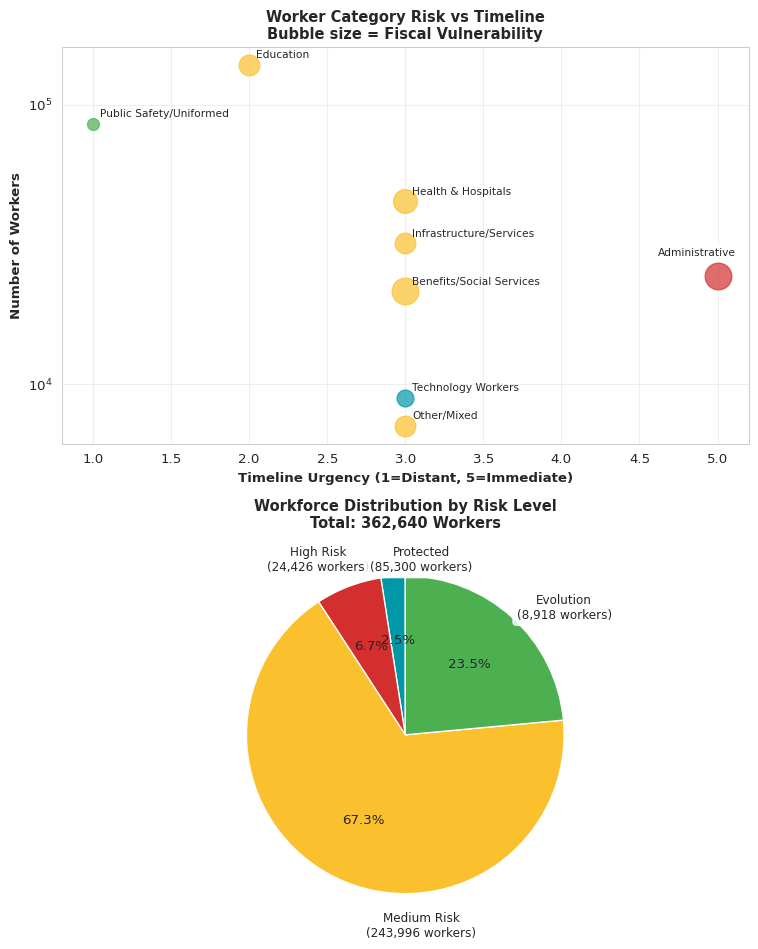
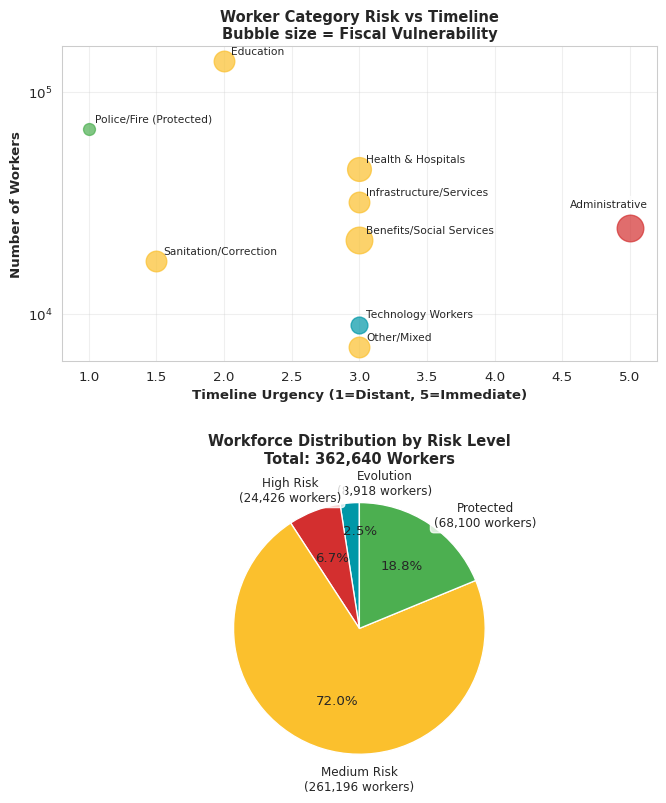
deploy: fa85fed6920fa88858ce38dbb10ab9d3096696cc

diff --git a/index.html b/index.html
@@ -6,10 +6,10 @@
 
 <meta name="viewport" content="width=device-width, initial-scale=1.0, user-scalable=yes">
 
-<meta name="author" content="Policy Analysis Team">
+<meta name="author" content="Municipal Futures Research Collective">
 <meta name="dcterms.date" content="2025-06-18">
 
-<title>AI’s Coming Wave: Impact Analysis for City Workers</title>
+<title>Municipal Workforce Transformation:</title>
 <style>
 code{white-space: pre-wrap;}
 span.smallcaps{font-variant: small-caps;}
@@ -113,13 +113,12 @@ pre > code.sourceCode > span > a:first-child::before { text-decoration: underlin
   </ul></li>
   <li><a href="#worker-category-risk-analysis" id="toc-worker-category-risk-analysis" class="nav-link" data-scroll-target="#worker-category-risk-analysis">📈 Worker Category Risk Analysis</a>
   <ul class="collapse">
-  <li><a href="#technology-workers-evolving-roles" id="toc-technology-workers-evolving-roles" class="nav-link" data-scroll-target="#technology-workers-evolving-roles">Technology Workers: Evolving Roles</a></li>
   <li><a href="#administrative-workers-earlier-and-more-intense-impact" id="toc-administrative-workers-earlier-and-more-intense-impact" class="nav-link" data-scroll-target="#administrative-workers-earlier-and-more-intense-impact">Administrative Workers: Earlier and More Intense Impact</a></li>
-  </ul></li>
-  <li><a href="#omd-position-analysis" id="toc-omd-position-analysis" class="nav-link" data-scroll-target="#omd-position-analysis">OMD Position Analysis</a>
+  <li><a href="#technology-workers-position-analysis" id="toc-technology-workers-position-analysis" class="nav-link" data-scroll-target="#technology-workers-position-analysis">Technology Workers: Position Analysis</a>
   <ul class="collapse">
-  <li><a href="#current-omd-workforce-and-risk-profile-30-positions" id="toc-current-omd-workforce-and-risk-profile-30-positions" class="nav-link" data-scroll-target="#current-omd-workforce-and-risk-profile-30-positions">Current OMD Workforce and Risk Profile (30 Positions)</a></li>
-  <li><a href="#position-analysis-competing-forces" id="toc-position-analysis-competing-forces" class="nav-link" data-scroll-target="#position-analysis-competing-forces">Position Analysis: Competing Forces</a></li>
+  <li><a href="#role-evolution-by-specialty" id="toc-role-evolution-by-specialty" class="nav-link" data-scroll-target="#role-evolution-by-specialty">Role Evolution by Specialty</a></li>
+  <li><a href="#overall-risk-assessment-8918-positions" id="toc-overall-risk-assessment-8918-positions" class="nav-link" data-scroll-target="#overall-risk-assessment-8918-positions">Overall Risk Assessment (8,918 Positions)</a></li>
+  </ul></li>
   </ul></li>
   <li><a href="#the-union-factor-protection-and-accelerated-timing" id="toc-the-union-factor-protection-and-accelerated-timing" class="nav-link" data-scroll-target="#the-union-factor-protection-and-accelerated-timing">The Union Factor: Protection and Accelerated Timing</a>
   <ul class="collapse">
@@ -127,7 +126,7 @@ pre > code.sourceCode > span > a:first-child::before { text-decoration: underlin
   <li><a href="#moderate-protection-shortened-windows" id="toc-moderate-protection-shortened-windows" class="nav-link" data-scroll-target="#moderate-protection-shortened-windows">Moderate Protection (Shortened Windows)</a></li>
   <li><a href="#least-protection-accelerated-impact" id="toc-least-protection-accelerated-impact" class="nav-link" data-scroll-target="#least-protection-accelerated-impact">Least Protection (Accelerated Impact)</a></li>
   </ul></li>
-  <li><a href="#key-takeaways-strategic-implications-for-workforce-transformation" id="toc-key-takeaways-strategic-implications-for-workforce-transformation" class="nav-link" data-scroll-target="#key-takeaways-strategic-implications-for-workforce-transformation">Key Takeaways: Strategic Implications for Workforce Transformation</a>
+  <li><a href="#key-takeaways-workforce-transformation-analysis" id="toc-key-takeaways-workforce-transformation-analysis" class="nav-link" data-scroll-target="#key-takeaways-workforce-transformation-analysis">Key Takeaways: Workforce Transformation Analysis</a>
   <ul class="collapse">
   <li><a href="#the-compressed-mathematical-reality" id="toc-the-compressed-mathematical-reality" class="nav-link" data-scroll-target="#the-compressed-mathematical-reality">The Compressed Mathematical Reality</a></li>
   <li><a href="#four-analytical-certainties" id="toc-four-analytical-certainties" class="nav-link" data-scroll-target="#four-analytical-certainties">Four Analytical Certainties</a></li>
@@ -141,8 +140,8 @@ pre > code.sourceCode > span > a:first-child::before { text-decoration: underlin
 
 <header id="title-block-header" class="quarto-title-block default">
 <div class="quarto-title">
-<h1 class="title">AI’s Coming Wave: Impact Analysis for City Workers</h1>
-<p class="subtitle lead">Interactive Dashboard and Strategic Timeline</p>
+<h1 class="title">Municipal Workforce Transformation:</h1>
+<p class="subtitle lead">NYC AI Impact Analysis 2025-2035</p>
 </div>
 
 
@@ -152,7 +151,7 @@ pre > code.sourceCode > span > a:first-child::before { text-decoration: underlin
     <div>
     <div class="quarto-title-meta-heading">Author</div>
     <div class="quarto-title-meta-contents">
-             <p>Policy Analysis Team </p>
+             <p>Municipal Futures Research Collective </p>
           </div>
   </div>
     
@@ -196,7 +195,7 @@ Key Findings
 </section>
 <section id="the-reality-check-you-need-to-hear" class="level1">
 <h1>The Reality Check You Need to Hear</h1>
-<p>While you’re reading this, 513 people lost their jobs to AI today—but none of them worked for NYC government. That 4-5 year head start the private sector has on AI adoption isn’t just an academic observation—it’s your window to prepare for what’s coming.</p>
+<p>While you’re reading this, 513 people lost their jobs to AI today—but none of them worked for NYC government. The private sector’s 2-3 year lead in AI adoption isn’t just an academic observation-—it’s a temporary buffer that won’t last forever.</p>
 <p>Microsoft just eliminated 6,000 positions in May 2025, with 40% targeting software engineers. IBM cut 8,000 more as AI agents took over HR functions. Meanwhile, NYC government is still debating AI ethics policies and running 18-month procurement processes. This lag isn’t permanent protection—it’s borrowed time.</p>
 <p><strong>Bottom line up front:</strong> AI displacement in NYC government follows a predictable timeline shaped by politics, procurement, and fiscal reality. The fiscal timeline has accelerated, creating a compressed but more intense transformation window than originally projected.</p>
 </section>
@@ -250,14 +249,14 @@ Key Findings
 <section id="historical-context-learning-from-the-great-recession" class="level2">
 <h2 class="anchored" data-anchor-id="historical-context-learning-from-the-great-recession">Historical Context: Learning from the Great Recession</h2>
 <p>The Great Recession (December 2007 - June 2009) provides essential insights for understanding NYC’s coming fiscal challenges and the extended timeline for municipal transformation.</p>
-<p>Municipal governments face different economic dynamics than private sector organizations. Property tax revenues, which comprise 50% of NYC’s income, lag economic changes by 1-2 years due to assessment cycles. Historical evidence shows that while the Great Recession officially lasted 18 months, municipal budget cuts continued 4+ years after it ended.</p>
+<p>Municipal governments face different economic dynamics than private sector organizations. Property tax revenues, which comprise approximately 50% of NYC’s income, lag economic changes by 1-2 years due to assessment cycles, creating 2-3 years of total revenue stability post-recession. Historical evidence shows that while the Great Recession officially lasted 18 months, municipal budget cuts continued 4+ years after it ended.</p>
 </section>
 <section id="nycs-fiscal-timeline-2026-2032" class="level2">
 <h2 class="anchored" data-anchor-id="nycs-fiscal-timeline-2026-2032">NYC’s Fiscal Timeline (2026-2032)</h2>
 <p><strong>Critical Assumption:</strong> This analysis assumes a significant economic recession beginning in 2026, which will accelerate fiscal pressures and compress the timeline for government AI adoption.</p>
 <p><strong>The Depletion (2026-2028):</strong> Recent projections show NYC’s fiscal buffer operates on a compressed timeline:</p>
 <ul>
-<li><strong>Property tax lag:</strong> 50% of city revenue remains stable for 2-3 years post-recession</li>
+<li><strong>Property tax lag:</strong> About 50% of city revenue remains stable for 2-3 years post-recession</li>
 <li><strong>Reserve funds:</strong> Depleted by 2028, not 2029 as previously projected</li>
 <li><strong>Income tax delays:</strong> Even immediate economic impacts take 12-18 months to affect collections</li>
 </ul>
@@ -456,11 +455,17 @@ Benefits/Social Services:
   • Timeline Urgency: 3/5
   • Automation Difficulty: 4/5
 
-Public Safety/Uniformed:
+Police/Fire (Protected):
   • Risk Level: Protected
-  • Workers: 85,300
+  • Workers: 68,100
   • Timeline Urgency: 1/5
   • Automation Difficulty: 1/5
+
+Sanitation/Correction:
+  • Risk Level: Medium Risk
+  • Workers: 17,200
+  • Timeline Urgency: 1.5/5
+  • Automation Difficulty: 3/5
 
 Education:
   • Risk Level: Medium Risk
@@ -488,30 +493,25 @@ Other/Mixed:
 </div>
 </div>
 <p>Recent AI advances and the compressed implementation timeline have significantly shifted risk profiles across worker categories within NYC’s 362,640 municipal workforce, requiring substantial revision of assumptions about “safe” jobs.</p>
-<section id="technology-workers-evolving-roles" class="level2">
-<h2 class="anchored" data-anchor-id="technology-workers-evolving-roles">Technology Workers: Evolving Roles</h2>
-<p>Technology workers face the most dramatic shift in prospects. Rather than displacement, they become essential to the transformation process, but with compressed timelines that require rapid adaptation.</p>
-<p><strong>Software Engineers</strong> must become “AI integration specialists” by 2027-2028. While 30% of routine coding is now AI-generated, government systems require human oversight for security, compliance, and complex integration with legacy systems.</p>
-<p><strong>Data Engineers</strong> emerge as the winners because government data complexity requires sophisticated data pipelines that AI cannot navigate without human guidance. They become essential during the 2029 preparation year when agencies scramble to build AI capabilities under fiscal pressure.</p>
-<p><strong>Data Scientists</strong> transform into critical AI interpreters, translating complex model results into actionable policy recommendations during crisis decision-making. Their role becomes essential during 2029-2030 when agencies need rapid but responsible AI deployment under fiscal constraints.</p>
-</section>
 <section id="administrative-workers-earlier-and-more-intense-impact" class="level2">
 <h2 class="anchored" data-anchor-id="administrative-workers-earlier-and-more-intense-impact">Administrative Workers: Earlier and More Intense Impact</h2>
 <p>The compressed timeline intensifies impact on administrative workers. Those in routine data processing, document review, or rules-based decision making face accelerated displacement with minimal preparation time. <strong>311 Customer Service Representatives</strong> face 2027-2028 implementation with 80-90% automation potential, representing immediate cost savings with minimal political resistance during fiscal crisis. <strong>Data Entry and Clerical Staff</strong> across agencies face 2027-2029 phased implementation as perfect automation targets with clear ROI calculations during budget pressure, while <strong>Basic Permit Processing Staff</strong> encounter 2028-2029 automation through digital document processing and rules-based approval systems, accelerated due to fiscal pressure and clear efficiency gains.</p>
 </section>
+<section id="technology-workers-position-analysis" class="level2">
+<h2 class="anchored" data-anchor-id="technology-workers-position-analysis">Technology Workers: Position Analysis</h2>
+<p>Technology workers face the most dramatic shift in prospects. Rather than displacement, they become essential to the transformation process, but with compressed timelines that require rapid adaptation.</p>
+<section id="role-evolution-by-specialty" class="level3">
+<h3 class="anchored" data-anchor-id="role-evolution-by-specialty">Role Evolution by Specialty</h3>
+<p><strong>Software Engineers</strong> must become “AI integration specialists” by 2027-2028. While 30% of routine coding is now AI-generated, government systems require human oversight for security, compliance, and complex integration with legacy systems.</p>
+<p><strong>Data Engineers</strong> emerge as the winners because government data complexity requires sophisticated data pipelines that AI cannot navigate without human guidance. They become essential during the 2029 preparation year when agencies scramble to build AI capabilities under fiscal pressure.</p>
+<p><strong>Data Scientists</strong> transform into critical AI interpreters, translating complex model results into actionable policy recommendations during crisis decision-making. Their role becomes essential during 2029-2030 when agencies need rapid but responsible AI deployment under fiscal constraints.</p>
 </section>
-<section id="omd-position-analysis" class="level1">
-<h1>OMD Position Analysis</h1>
-<p>The Department of Sanitation Operations Management Division faces a complex position during municipal transformation. While technical expertise provides certain advantages, the compressed timeline and fiscal pressure create significant risks even for technically skilled workers.</p>
-<section id="current-omd-workforce-and-risk-profile-30-positions" class="level2">
-<h2 class="anchored" data-anchor-id="current-omd-workforce-and-risk-profile-30-positions">Current OMD Workforce and Risk Profile (30 Positions)</h2>
-<p>The OMD technical team includes data scientists and analysts, software engineers and developers, data engineers and database managers, ARCGIS specialists and spatial analysts, and systems architects. While this skillset aligns with AI implementation needs, technical expertise alone doesn’t guarantee protection when fiscal pressure mounts.</p>
-</section>
-<section id="position-analysis-competing-forces" class="level2">
-<h2 class="anchored" data-anchor-id="position-analysis-competing-forces">Position Analysis: Competing Forces</h2>
+<section id="overall-risk-assessment-8918-positions" class="level3">
+<h3 class="anchored" data-anchor-id="overall-risk-assessment-8918-positions">Overall Risk Assessment (8,918 Positions)</h3>
 <p><strong>Technical advantages</strong> include expertise that agencies need for AI implementation, understanding of data systems architecture that becomes mission-critical during transformation, and specialized knowledge that’s scarce across the fragmented municipal bureaucracy.</p>
 <p><strong>Substantial risks</strong> include accelerated pressure from compressed fiscal timelines, high-visibility accountability when AI implementations succeed or fail, and the reality that organizational upheaval affects all municipal units during sustained fiscal crisis.</p>
 <p><strong>Bottom line:</strong> Technical positioning offers better odds than routine administrative work, but doesn’t eliminate exposure to the broader 25-30% workforce reduction projected by 2035. The compressed timeline means advantages must be leveraged smartly or they become irrelevant.</p>
+</section>
 </section>
 </section>
 <section id="the-union-factor-protection-and-accelerated-timing" class="level1">
@@ -519,7 +519,7 @@ Other/Mixed:
 <p>Union affiliation significantly affects displacement timeline and protection level, but fiscal crisis reduces overall protection duration and effectiveness across all categories.</p>
 <section id="strongest-protection-extended-timeline" class="level2">
 <h2 class="anchored" data-anchor-id="strongest-protection-extended-timeline">Strongest Protection (Extended Timeline)</h2>
-<p><strong>DC 37 (civilian workers)</strong> maintains maximum political leverage through largest membership, but fiscal crisis weakens negotiating position as the “efficiency or insolvency” narrative gains traction. <strong>Uniformed unions</strong> retain protection through roles inherently difficult to automate plus strong political protection, with timelines remaining at 2035+ due to public safety priorities.</p>
+<p><strong>DC 37 (civilian workers)</strong> maintains maximum political leverage through largest membership, but fiscal crisis weakens negotiating position as the “efficiency or insolvency” narrative gains traction. <strong>Police and fire unions</strong> retain protection through roles inherently difficult to automate plus strong political protection, with timelines remaining at 2035+ due to public safety priorities. <strong>Sanitation and correction workers</strong> face different pressures - while front-line roles resist automation, these positions proved vulnerable to budget cuts during COVID, demonstrating that fiscal crisis can override traditional uniformed protections.</p>
 </section>
 <section id="moderate-protection-shortened-windows" class="level2">
 <h2 class="anchored" data-anchor-id="moderate-protection-shortened-windows">Moderate Protection (Shortened Windows)</h2>
@@ -530,8 +530,8 @@ Other/Mixed:
 <p><strong>Managerial staff</strong> face targeting as “efficiency” opportunities during fiscal crisis when reducing management layers provides both cost savings and political benefits. <strong>Provisionals and non-competitive titles</strong> become first eliminated during 2029 pressure cooker year lacking civil service protections, while <strong>Temporary and part-time workers</strong> face elimination during the strategic attrition period as the easiest targets for immediate cost reduction without political complications.</p>
 </section>
 </section>
-<section id="key-takeaways-strategic-implications-for-workforce-transformation" class="level1">
-<h1>Key Takeaways: Strategic Implications for Workforce Transformation</h1>
+<section id="key-takeaways-workforce-transformation-analysis" class="level1">
+<h1>Key Takeaways: Workforce Transformation Analysis</h1>
 <p>AI displacement in NYC government follows an accelerated pattern shaped by the convergence of political cycles, fiscal crisis, and technological maturity as detailed in the perfect storm analysis above.</p>
 <section id="the-compressed-mathematical-reality" class="level2">
 <h2 class="anchored" data-anchor-id="the-compressed-mathematical-reality">The Compressed Mathematical Reality</h2>
@@ -549,11 +549,11 @@ Other/Mixed:
 </section>
 <section id="workforce-reality-by-2035" class="level2">
 <h2 class="anchored" data-anchor-id="workforce-reality-by-2035">Workforce Reality by 2035</h2>
-<p>Current projections indicate the NYC government workforce will be 25-30% smaller by 2035, dropping from approximately 362,640 to 254,000-272,000 workers, with transformation compressed into the intense 2030-2032 period. The remaining workforce will consist of workers who adapted quickly to AI collaboration models, those requiring complex human judgment, and positions with strong union or political protection.</p>
+<p>Current projections indicate the NYC government workforce will be 25-30% smaller by 2035, eliminating 90,000-108,000 positions as the workforce drops from approximately 362,640 to 254,000-272,000 workers, with transformation compressed into the intense 2030-2032 period. The remaining workforce will consist of workers who adapted quickly to AI collaboration models, those requiring complex human judgment, and positions with strong union or political protection.</p>
 </section>
 <section id="technical-workers-analysis-summary" class="level2">
 <h2 class="anchored" data-anchor-id="technical-workers-analysis-summary">Technical Workers Analysis Summary</h2>
-<p>The 30 technical positions within OMD, along with the broader 8,918 technology workers across all agencies (OTI plus 2% of each agency), face a fundamentally different risk profile than administrative workers, but technical expertise provides relative advantage, not immunity. The 2029 pressure cooker year creates demand for AI implementation expertise, yet the same fiscal crisis that creates opportunity also accelerates displacement timelines across all categories. While technical skills offer better positioning than routine administrative functions, the projected 25-30% municipal workforce reduction by 2035 affects all categories, and even technical workers face organizational restructuring that reshapes roles regardless of individual capability or union protection. Technical expertise buys strategic positioning and potentially better outcomes, but the compressed timeline and sustained fiscal pressure mean that even advantaged workers face significant organizational upheaval and must navigate the same fundamental forces reshaping municipal employment.</p>
+<p>The 8,918 technology workers across all agencies (OTI plus 2% of each agency) face a fundamentally different risk profile than administrative workers, but technical expertise provides relative advantage, not immunity. The 2029 pressure cooker year creates demand for AI implementation expertise, yet the same fiscal crisis that creates opportunity also accelerates displacement timelines across all categories. While technical skills offer better positioning than routine administrative functions, the projected 25-30% municipal workforce reduction by 2035 affects all categories, and even technical workers face organizational restructuring that reshapes roles regardless of individual capability or union protection. Technical expertise buys strategic positioning and potentially better outcomes, but the compressed timeline and sustained fiscal pressure mean that even advantaged workers face significant organizational upheaval and must navigate the same fundamental forces reshaping municipal employment.</p>
 <hr>
 <div class="callout callout-style-default callout-tip callout-titled">
 <div class="callout-header d-flex align-content-center">
@@ -572,7 +572,6 @@ Document Status
 <li>✅ <strong>Risk Heatmap</strong>: Department-by-department analysis<br>
 </li>
 <li>✅ <strong>Worker Category Analysis</strong>: Risk vs timeline correlation</li>
-<li>✅ <strong>Complete Integration</strong>: HackMD content merged with 4 visualizations</li>
 <li>✅ <strong>Accurate Workforce Data</strong>: Updated to reflect actual NYC municipal workforce (362,640 total)</li>
 <li>✅ <strong>Technology Workers</strong>: Calculated using OTI (1,666) + 2% of each agency (7,252) = 8,918 total</li>
 </ul>
